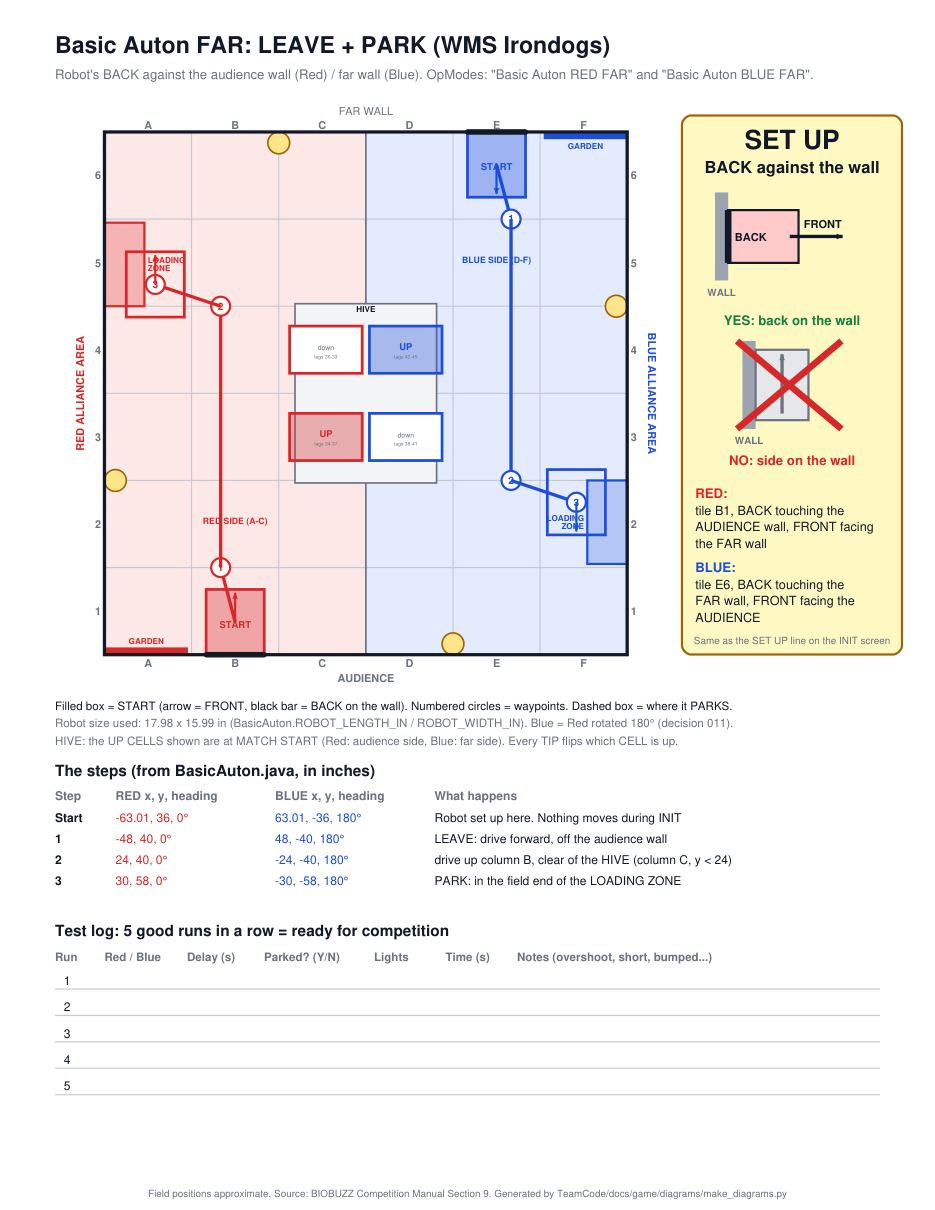
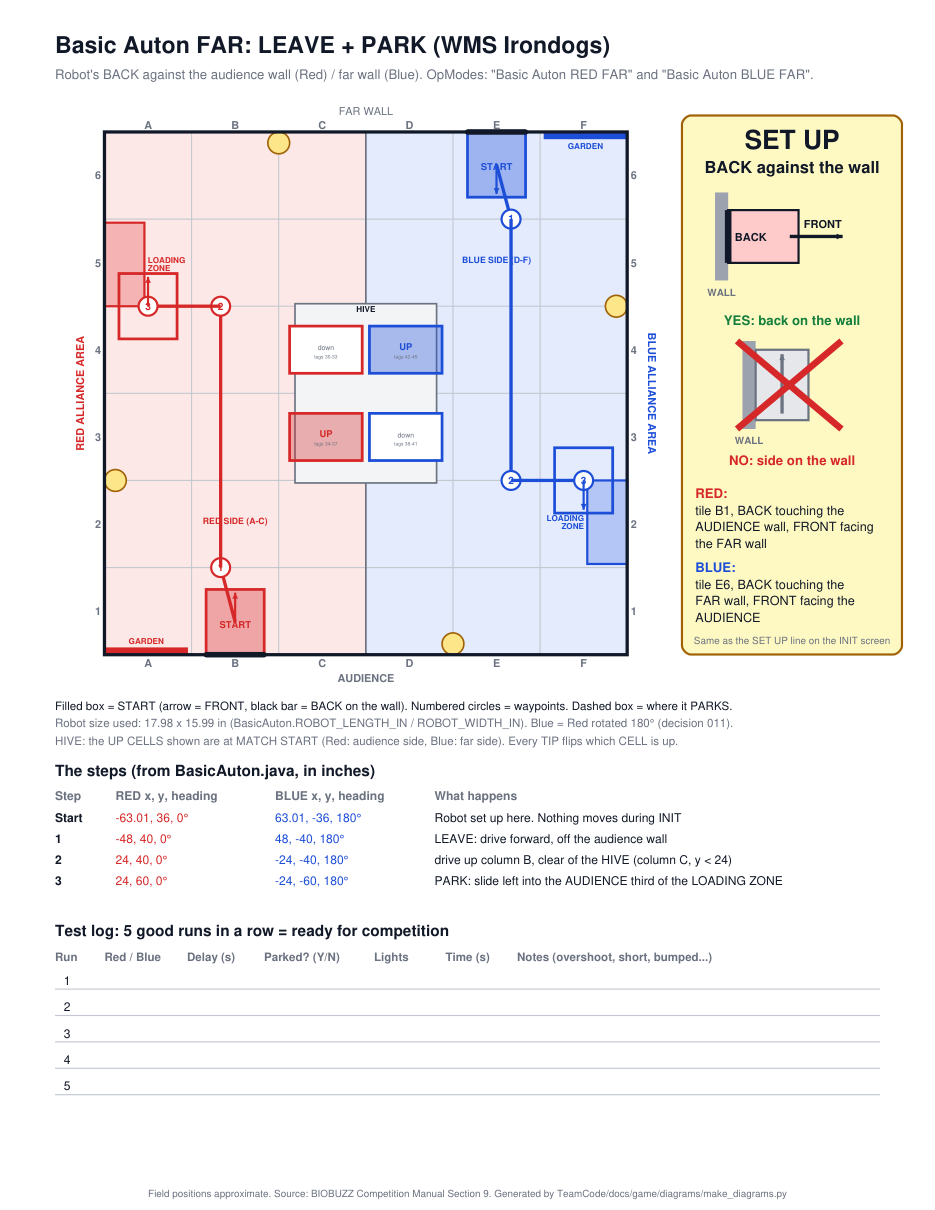
Basic Auton: NEAR parks in the far-wall third, FAR in the audience third
PARK only needs the robot partly in the LOADING ZONE, so the two alliance
robots split it to avoid collisions:
- NEAR park (40, 60) -> (48, 60): robot covers x 40-56, the far-wall third.
- FAR park (30, 58) -> (24, 60): robot covers x 15-33, the audience third;
  the last move is now a straight slide from (24, 40).
About 7 in apart; both end 3-4 in off the wall (LEAVE still counts).
Route sheets regenerated, alliance sheet checkboxes, auto README, change log.
To calibrate on a real practice field.

Claude-Session: https://claude.ai/code/session_01AJyb1M5NbqPhffJzAGudwT

Changed region(s): [[0.4963, 0.7033, 0.8374, 0.7339], [0.5583, 0.3669, 0.6824, 0.4587], [0.1241, 0.1835, 0.2171, 0.3058]]

diff --git a/TeamCode/src/main/java/org/firstinspires/ftc/teamcode/opmodes/auto/BasicAuton.java b/TeamCode/src/main/java/org/firstinspires/ftc/teamcode/opmodes/auto/BasicAuton.java
@@ -61,16 +61,19 @@ public abstract class BasicAuton extends LinearOpMode {
     static final Pose2D RED_NEAR_START = redPose(60, 72 - ROBOT_LENGTH_IN / 2, -90);
     static final Pose2D[] RED_NEAR_PATH = {
             redPose(60, 50, -90),  // LEAVE: drive straight forward, off the red wall
-            redPose(40, 60, -90),  // PARK: slide toward the audience, partly into the LOADING ZONE, off the wall
+            redPose(48, 60, -90),  // PARK: slide toward the audience, into the FAR-WALL third of the LOADING ZONE
     };
-    // (LOADING ZONE: x 24.5 to 47.5, y 61 to 72. PARK = partly in it; LEAVE = not touching the wall at the end.)
+    // LOADING ZONE: x 24.5 (audience end) to 47.5 (far-wall end), y 61 to 72. PARK only needs the robot PARTLY in it,
+    // so the two alliance robots split it (11/8): NEAR parks in the far-wall third (robot x 40-56), FAR in the
+    // audience third (robot x 15-33), about 7 in apart. Both end 3-4 in off the wall, so LEAVE still counts.
+    // TODO(#22): calibrate both on a real practice field.
 
     // FAR: start in tile B1, BACK touching the AUDIENCE wall (x = -72), facing the far wall.
     static final Pose2D RED_FAR_START = redPose(-72 + ROBOT_LENGTH_IN / 2, 36, 0);
     static final Pose2D[] RED_FAR_PATH = {
             redPose(-48, 40, 0),  // LEAVE: drive forward, off the audience wall
             redPose(24, 40, 0),   // drive up column B, clear of the HIVE (column C, y < 24)
-            redPose(30, 58, 0),   // PARK: in the field end of the LOADING ZONE
+            redPose(24, 60, 0),   // PARK: slide left into the AUDIENCE third of the LOADING ZONE
     };
 
     // ------------------------------------------------------------------------------------------------

diff --git a/TeamCode/docs/game/diagrams/make_diagrams.py b/TeamCode/docs/game/diagrams/make_diagrams.py
@@ -346,8 +346,8 @@ def alliance_sheet():
     out.append(blank(62, ay + 78, 340, "Our start delay (s):", 12.5))
     out.append(blank(430, ay + 78, 345, "Partner delay (s):", 12.5))
     out.append(Field.text(62, ay + 108, "LOADING ZONE park:", 12.5, INK))
-    out.append(checkbox(200, ay + 108, "We take wall end", False, 12.5))
-    out.append(checkbox(380, ay + 108, "We take field end", False, 12.5))
+    out.append(checkbox(200, ay + 108, "We park far-wall third", False, 12.5))
+    out.append(checkbox(380, ay + 108, "We park audience third", False, 12.5))
     out.append(Field.text(62, ay + 136, "SWARM RP: both robots LEAVE + PARK in AUTO = 16 pts", 12.5, RED, bold=True))
     out.append(footer())
     return svg_page("\n".join(out))

diff --git a/TeamCode/docs/changes-made.md b/TeamCode/docs/changes-made.md
@@ -175,3 +175,4 @@ New **tuning guide** `TeamCode/docs/tuning-guide.md`: every value the team tunes
 **Basic Auton: always BACK to the wall** (#22, decision 046). NEAR now starts with the robot's BACK on our alliance wall, facing into the field (was: LEFT side on the wall), so all four programs use the same rule. NEAR route: drive forward off the wall, then slide into the LOADING ZONE, no turning (park spot (40, 60), facing -90). FAR unchanged. The INIT screen now shows a plain **SET UP:** line (tile, back to which wall, front facing where). NEAR route sheet regenerated; drive team guide updated (setup table, INIT screen, checklist, and the Pinpoint-READY wait from 11/7); auto README updated. Not tested on the floor yet.
 **Route sheets: big SET UP panel** (#22, decision 046): `basic-auton-near.pdf` and `basic-auton-far.pdf` now have a yellow **SET UP** panel next to the field: a close-up of the robot with its **BACK** on the wall (YES), a crossed-out robot with its **side** on the wall (NO), and the exact Red and Blue setup. That text is read from `BasicAuton.setupText()`, the same words as the INIT screen. The START box on the field has a black bar on its back edge. The field drawing is a little smaller to make room.
 **Field diagrams show which CELL is UP at match start** (for Advanced Auton, #25): Red's **audience-side** CELL and Blue's **far-side** CELL start up (Competition Manual p. 83: the CELL pointing at a FLOWER starts down). The UP CELLS are filled with their alliance color and labeled UP; the others say "down". Each CELL shows its AprilTag IDs, and a note says every TIP flips which one is up. Updated: field template, alliance sheet, both Basic Auton route sheets, and `field.md`.
+**Basic Auton park spots split the LOADING ZONE** (#22): PARK only needs the robot partly in the zone, so to avoid bumping our alliance partner, **NEAR parks in the far-wall third** (now (48, 60), was (40, 60)) and **FAR parks in the audience third** (now (24, 60), was (30, 58); its last move is a straight slide). About 7 in between the two robots; both end 3-4 in off the wall, so LEAVE still counts. Route sheets regenerated; alliance sheet checkboxes now say "We park far-wall third / audience third"; auto README updated. To calibrate on a real practice field.

diff --git a/TeamCode/src/main/java/org/firstinspires/ftc/teamcode/opmodes/auto/README.md b/TeamCode/src/main/java/org/firstinspires/ftc/teamcode/opmodes/auto/README.md
@@ -5,8 +5,8 @@ Four OpModes in the **Basic Auton** group on the Driver Station. Pick the one th
 
 | OpMode | Start | Route |
 |---|---|---|
-| Basic Auton RED NEAR | Tile **A6**, **back** against the **red wall**, facing into the field | Drive forward off the wall, slide toward the audience, park in the wall end of the LOADING ZONE (A5) |
-| Basic Auton RED FAR | Tile **B1**, back against the **audience wall** | Off the wall, up column B (clear of the HIVE), park in the field end of the LOADING ZONE |
+| Basic Auton RED NEAR | Tile **A6**, **back** against the **red wall**, facing into the field | Drive forward off the wall, slide toward the audience, park in the **far-wall third** of the LOADING ZONE (A5) |
+| Basic Auton RED FAR | Tile **B1**, back against the **audience wall** | Off the wall, up column B (clear of the HIVE), park in the **audience third** of the LOADING ZONE |
 | Basic Auton BLUE NEAR | Tile **F1**, **back** against the **blue wall**, facing into the field | Same as RED NEAR, rotated 180° |
 | Basic Auton BLUE FAR | Tile **E6**, back against the **far wall** | Same as RED FAR, rotated 180° |
 
